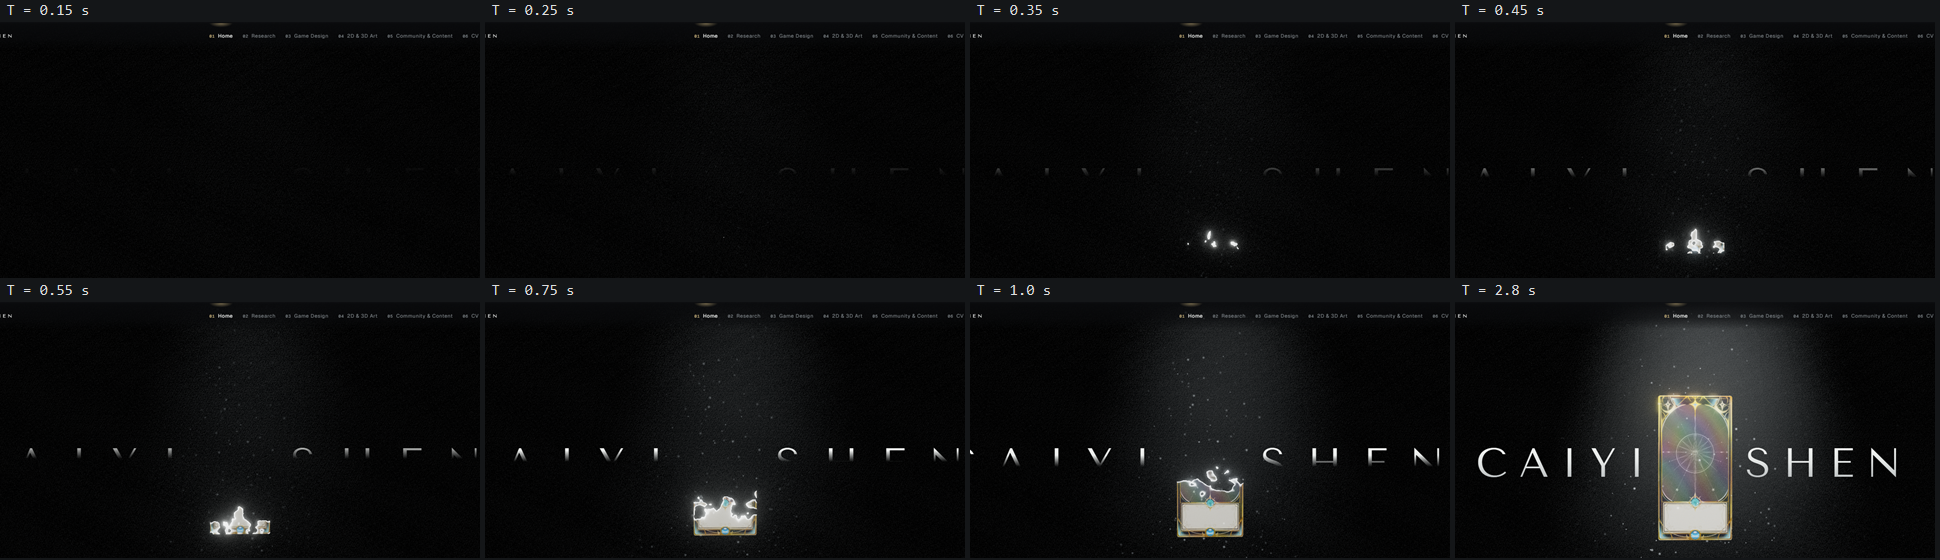
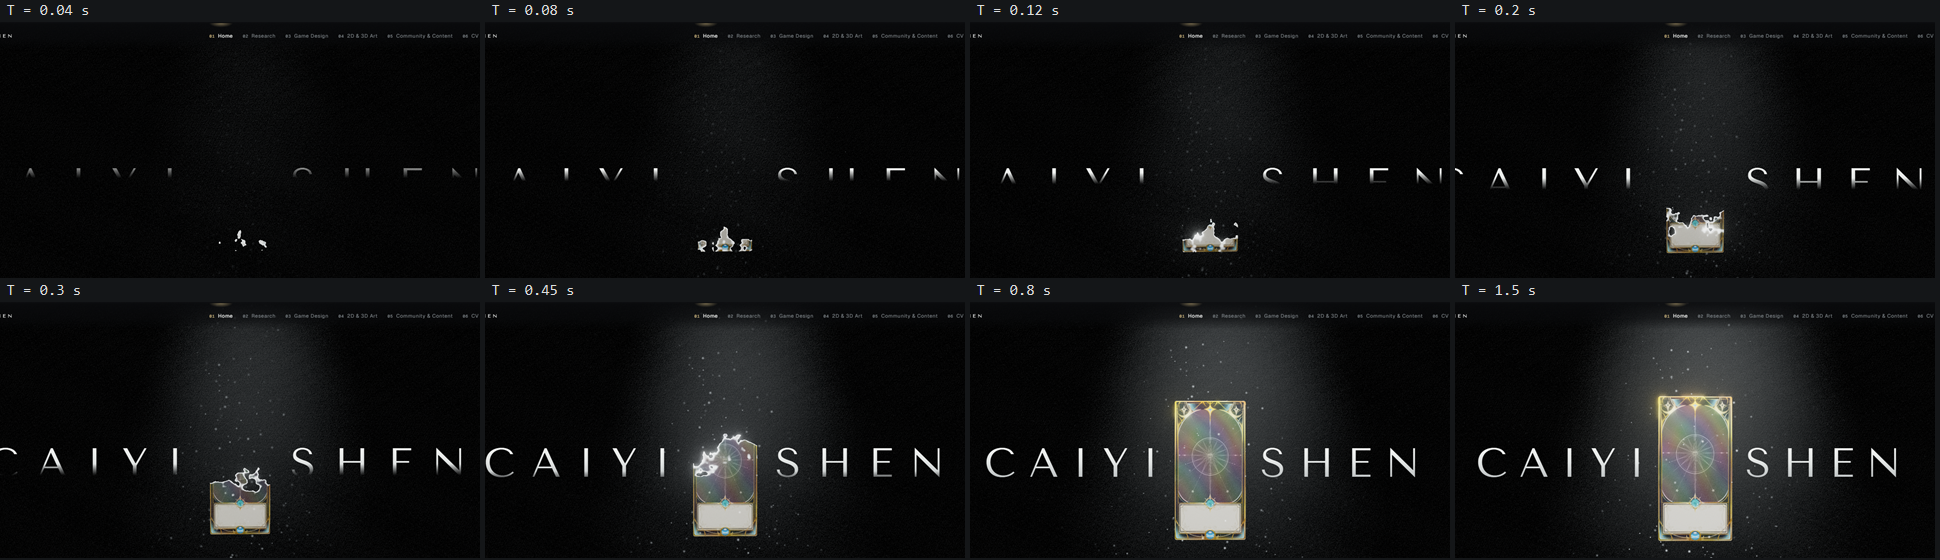
Cover: 1.5 s reveal, front-loaded name, 1.3 s approach; preload card textures

diff --git a/preview/c2/js/scene.js b/preview/c2/js/scene.js
@@ -11,15 +11,19 @@ const clamp01 = v => Math.min(1, Math.max(0, v));
  * name and the card all start there and share REVEAL and the same ease, so
  * they read as one shot. The camera push-in (4.6 s) starts at the same T = 0
  * and simply runs a little longer, settling after the reveal. */
-export const REVEAL = 2.2;
-export const APPROACH = 1.8;   // camera push-in + entrance turn (was 2.4 s, originally 4.6 s)
+export const REVEAL = 1.5;
+export const APPROACH = 1.3;   // camera push-in + entrance turn (was 1.8 s, originally 4.6 s)
 const approachEase = t => 1 - Math.pow(1 - t, 2.6);
-const introEase = ease.inOutSine;
+// Light and card dissolve: a sine ease-out, visible from the first frames
+// (the earlier in-out curve held the opening near black for ~0.25 s).
+const introEase = t => Math.sin(t * Math.PI / 2);
+// Name: front-loaded so most of the letters are lit within ~0.8 s.
+const nameEase = t => 1 - Math.pow(1 - t, 3);
 const A = p => new URL(p, import.meta.url).href;
 
 export const theme = {
   cardSrc: A('../../../assets/projects/generate-deeplight-games/tarot-card-design-v2-tight-758.webp'),
-  cardMaps: { base: A('../textures/tarot-base-neutral.png'), surface: A('../textures/tarot-surface.png'), foil: A('../textures/tarot-foil.png') },
+  cardMaps: { base: A('../textures/tarot-base-neutral.webp'), surface: A('../textures/tarot-surface.png'), foil: A('../textures/tarot-foil.png') },
   foil: { strength: 0.85, gain: 1.4, floor: 0.003, saturation: 0.6, bandFreq: 3.0, thickPhase: 0.35, bandsAcross: 2.2, iridescence: 0.4, ior: 1.5, thicknessRange: [240, 520], clearcoatRoughness: 0.16 },
   sweep: false,
   background: '#050607',
@@ -85,7 +89,9 @@ export const theme = {
     const M0 = 4;            // mask edge just above the cap height: letters begin to show at once
     if (cover) document.documentElement.classList.add('tl-driven');
     return { update(st, k, T) {
-      const a = reducedMQ.matches ? 1 : introEase(clamp01(T / REVEAL));
+      const p = clamp01(T / REVEAL);
+      const a = reducedMQ.matches ? 1 : introEase(p);
+      const an = reducedMQ.matches ? 1 : nameEase(p);
       const v = Math.pow(a, SPOT_GAMMA);
       beam.material.uniforms.uA.value = v * (1 - st.scroll * 0.6);
       pool.material.uniforms.uA.value = v;
@@ -95,9 +101,9 @@ export const theme = {
       if (done || !cover) return;
       // Name: lit from above as the light comes up, tracking settling — same clock, same ease.
       const ls0 = portrait.matches ? 0.5 : 0.62, ls1 = portrait.matches ? 0.22 : 0.3;
-      for (const w of words) { w.style.setProperty('--m', (M0 + (100 - M0) * a).toFixed(2) + '%'); w.style.setProperty('--ls', (ls0 + (ls1 - ls0) * a).toFixed(4) + 'em'); w.style.opacity = String(clamp01(a / 0.12)); }
+      for (const w of words) { w.style.setProperty('--m', (M0 + (100 - M0) * an).toFixed(2) + '%'); w.style.setProperty('--ls', (ls0 + (ls1 - ls0) * an).toFixed(4) + 'em'); w.style.opacity = String(clamp01(an / 0.12)); }
       meta.forEach((m, i) => { m.style.opacity = String(Math.pow(a, 1.6 + i * 0.8)); });
-      if (a >= 1) { done = true; for (const w of words) { w.style.removeProperty('--m'); w.style.removeProperty('--ls'); } document.documentElement.classList.add('scene-lit'); }
+      if (p >= 1) { done = true; for (const w of words) { w.style.removeProperty('--m'); w.style.removeProperty('--ls'); } document.documentElement.classList.add('scene-lit'); }
     } };
   },
 };

diff --git a/prototypes/src/c2/scene.js b/prototypes/src/c2/scene.js
@@ -11,15 +11,19 @@ const clamp01 = v => Math.min(1, Math.max(0, v));
  * name and the card all start there and share REVEAL and the same ease, so
  * they read as one shot. The camera push-in (4.6 s) starts at the same T = 0
  * and simply runs a little longer, settling after the reveal. */
-export const REVEAL = 2.2;
-export const APPROACH = 1.8;   // camera push-in + entrance turn (was 2.4 s, originally 4.6 s)
+export const REVEAL = 1.5;
+export const APPROACH = 1.3;   // camera push-in + entrance turn (was 1.8 s, originally 4.6 s)
 const approachEase = t => 1 - Math.pow(1 - t, 2.6);
-const introEase = ease.inOutSine;
+// Light and card dissolve: a sine ease-out, visible from the first frames
+// (the earlier in-out curve held the opening near black for ~0.25 s).
+const introEase = t => Math.sin(t * Math.PI / 2);
+// Name: front-loaded so most of the letters are lit within ~0.8 s.
+const nameEase = t => 1 - Math.pow(1 - t, 3);
 const A = p => new URL(p, import.meta.url).href;
 
 export const theme = {
   cardSrc: A('../../../assets/projects/generate-deeplight-games/tarot-card-design-v2-tight-758.webp'),
-  cardMaps: { base: A('../textures/tarot-base-neutral.png'), surface: A('../textures/tarot-surface.png'), foil: A('../textures/tarot-foil.png') },
+  cardMaps: { base: A('../textures/tarot-base-neutral.webp'), surface: A('../textures/tarot-surface.png'), foil: A('../textures/tarot-foil.png') },
   foil: { strength: 0.85, gain: 1.4, floor: 0.003, saturation: 0.6, bandFreq: 3.0, thickPhase: 0.35, bandsAcross: 2.2, iridescence: 0.4, ior: 1.5, thicknessRange: [240, 520], clearcoatRoughness: 0.16 },
   sweep: false,
   background: '#050607',
@@ -85,7 +89,9 @@ export const theme = {
     const M0 = 4;            // mask edge just above the cap height: letters begin to show at once
     if (cover) document.documentElement.classList.add('tl-driven');
     return { update(st, k, T) {
-      const a = reducedMQ.matches ? 1 : introEase(clamp01(T / REVEAL));
+      const p = clamp01(T / REVEAL);
+      const a = reducedMQ.matches ? 1 : introEase(p);
+      const an = reducedMQ.matches ? 1 : nameEase(p);
       const v = Math.pow(a, SPOT_GAMMA);
       beam.material.uniforms.uA.value = v * (1 - st.scroll * 0.6);
       pool.material.uniforms.uA.value = v;
@@ -95,9 +101,9 @@ export const theme = {
       if (done || !cover) return;
       // Name: lit from above as the light comes up, tracking settling — same clock, same ease.
       const ls0 = portrait.matches ? 0.5 : 0.62, ls1 = portrait.matches ? 0.22 : 0.3;
-      for (const w of words) { w.style.setProperty('--m', (M0 + (100 - M0) * a).toFixed(2) + '%'); w.style.setProperty('--ls', (ls0 + (ls1 - ls0) * a).toFixed(4) + 'em'); w.style.opacity = String(clamp01(a / 0.12)); }
+      for (const w of words) { w.style.setProperty('--m', (M0 + (100 - M0) * an).toFixed(2) + '%'); w.style.setProperty('--ls', (ls0 + (ls1 - ls0) * an).toFixed(4) + 'em'); w.style.opacity = String(clamp01(an / 0.12)); }
       meta.forEach((m, i) => { m.style.opacity = String(Math.pow(a, 1.6 + i * 0.8)); });
-      if (a >= 1) { done = true; for (const w of words) { w.style.removeProperty('--m'); w.style.removeProperty('--ls'); } document.documentElement.classList.add('scene-lit'); }
+      if (p >= 1) { done = true; for (const w of words) { w.style.removeProperty('--m'); w.style.removeProperty('--ls'); } document.documentElement.classList.add('scene-lit'); }
     } };
   },
 };

diff --git a/preview/c2/js/tarot-engine-c2.js b/preview/c2/js/tarot-engine-c2.js
@@ -287,6 +287,10 @@ export function updateGrating(uniforms, card, camera, dir = [0.6, 0.8, 0]) {
 }
 
 export async function mountScene(root, theme) {
+  performance.mark('c2:mount');
+  // Request the artwork and its material maps immediately and in parallel, so
+  // they arrive while the renderer and environment are being prepared.
+  const pending = theme.card === false ? null : Promise.all([theme.cardSrc, ...(theme.cardMaps ? [theme.cardMaps.base, theme.cardMaps.surface, theme.cardMaps.foil] : [])].map(src => loadImage(src).catch(() => null)));
   const canvas = root.querySelector('canvas');
   const reduce = matchMedia('(prefers-reduced-motion: reduce)');
   if (!canvas || !webglAvailable()) { root.classList.add('no-webgl'); return null; }
@@ -306,8 +310,10 @@ export async function mountScene(root, theme) {
   const scene = new THREE.Scene();
   if (!theme.transparent) scene.background = new THREE.Color(theme.background);
   if (theme.fog) scene.fog = new THREE.Fog(theme.fog.color, theme.fog.near, theme.fog.far);
+  performance.mark('c2:renderer');
   const pmrem = new THREE.PMREMGenerator(renderer);
   scene.environment = pmrem.fromScene(new RoomEnvironment(), 0.04).texture;
+  performance.mark('c2:pmrem');
   scene.environmentIntensity = theme.environmentIntensity ?? 1;
   if (theme.environmentRotation) scene.environmentRotation.set(...theme.environmentRotation);
 
@@ -327,9 +333,11 @@ export async function mountScene(root, theme) {
   const cardPivot = new THREE.Group(); rig.add(cardPivot);
   let card = null, cardUniforms = null;
   if (theme.card !== false) {
-    const img = await loadImage(theme.cardSrc);
+    const [img, base, surface, foil] = await pending;
     let maps = null;
-    if (theme.cardMaps) { try { const [base, surface, foil] = await Promise.all([theme.cardMaps.base, theme.cardMaps.surface, theme.cardMaps.foil].map(loadImage)); maps = { base, surface, foil }; } catch (e) { console.warn('Derived card maps unavailable; using the artwork directly without foil.', e); } }
+    if (theme.cardMaps && base && surface && foil) maps = { base, surface, foil };
+    else if (theme.cardMaps) console.warn('Derived card maps unavailable; using the artwork directly without foil.');
+    performance.mark('c2:images');
     const built = createCardMaterials(img, renderer, theme, maps);
     card = new THREE.Mesh(buildCardGeometry(theme.cardGeometry), built.materials);
     cardUniforms = built.uniforms;
@@ -427,7 +435,9 @@ export async function mountScene(root, theme) {
   if (!reduce.matches) addEventListener('pointermove', e => { if (e.pointerType !== 'mouse') return; st.tx = (e.clientX / innerWidth) * 2 - 1; st.ty = -((e.clientY / innerHeight) * 2 - 1); }, { passive: true });
   reduce.addEventListener?.('change', () => { stop(); updateRun(); frame(0); });
 
+  performance.mark('c2:setup');
   frame(0);
+  performance.mark('c2:firstframe');
   root.classList.add('is-live');
   updateRun();
   if (reduce.matches) frame(0);

diff --git a/prototypes/src/c2/tarot-engine-c2.js b/prototypes/src/c2/tarot-engine-c2.js
@@ -287,6 +287,10 @@ export function updateGrating(uniforms, card, camera, dir = [0.6, 0.8, 0]) {
 }
 
 export async function mountScene(root, theme) {
+  performance.mark('c2:mount');
+  // Request the artwork and its material maps immediately and in parallel, so
+  // they arrive while the renderer and environment are being prepared.
+  const pending = theme.card === false ? null : Promise.all([theme.cardSrc, ...(theme.cardMaps ? [theme.cardMaps.base, theme.cardMaps.surface, theme.cardMaps.foil] : [])].map(src => loadImage(src).catch(() => null)));
   const canvas = root.querySelector('canvas');
   const reduce = matchMedia('(prefers-reduced-motion: reduce)');
   if (!canvas || !webglAvailable()) { root.classList.add('no-webgl'); return null; }
@@ -306,8 +310,10 @@ export async function mountScene(root, theme) {
   const scene = new THREE.Scene();
   if (!theme.transparent) scene.background = new THREE.Color(theme.background);
   if (theme.fog) scene.fog = new THREE.Fog(theme.fog.color, theme.fog.near, theme.fog.far);
+  performance.mark('c2:renderer');
   const pmrem = new THREE.PMREMGenerator(renderer);
   scene.environment = pmrem.fromScene(new RoomEnvironment(), 0.04).texture;
+  performance.mark('c2:pmrem');
   scene.environmentIntensity = theme.environmentIntensity ?? 1;
   if (theme.environmentRotation) scene.environmentRotation.set(...theme.environmentRotation);
 
@@ -327,9 +333,11 @@ export async function mountScene(root, theme) {
   const cardPivot = new THREE.Group(); rig.add(cardPivot);
   let card = null, cardUniforms = null;
   if (theme.card !== false) {
-    const img = await loadImage(theme.cardSrc);
+    const [img, base, surface, foil] = await pending;
     let maps = null;
-    if (theme.cardMaps) { try { const [base, surface, foil] = await Promise.all([theme.cardMaps.base, theme.cardMaps.surface, theme.cardMaps.foil].map(loadImage)); maps = { base, surface, foil }; } catch (e) { console.warn('Derived card maps unavailable; using the artwork directly without foil.', e); } }
+    if (theme.cardMaps && base && surface && foil) maps = { base, surface, foil };
+    else if (theme.cardMaps) console.warn('Derived card maps unavailable; using the artwork directly without foil.');
+    performance.mark('c2:images');
     const built = createCardMaterials(img, renderer, theme, maps);
     card = new THREE.Mesh(buildCardGeometry(theme.cardGeometry), built.materials);
     cardUniforms = built.uniforms;
@@ -427,7 +435,9 @@ export async function mountScene(root, theme) {
   if (!reduce.matches) addEventListener('pointermove', e => { if (e.pointerType !== 'mouse') return; st.tx = (e.clientX / innerWidth) * 2 - 1; st.ty = -((e.clientY / innerHeight) * 2 - 1); }, { passive: true });
   reduce.addEventListener?.('change', () => { stop(); updateRun(); frame(0); });
 
+  performance.mark('c2:setup');
   frame(0);
+  performance.mark('c2:firstframe');
   root.classList.add('is-live');
   updateRun();
   if (reduce.matches) frame(0);

diff --git a/preview/c2/index.html b/preview/c2/index.html
@@ -18,6 +18,12 @@
 <script>document.documentElement.classList.add('js-anim');try{var gc=document.createElement('canvas');if(gc.getContext('webgl2')||gc.getContext('webgl'))document.documentElement.classList.add('gl')}catch(e){}</script>
 <script type="importmap">{"imports":{"three":"./vendor/three/three.module.js","three/addons/":"./vendor/three/addons/"}}</script>
 <script type="module" src="js/scene.js"></script>
+<link rel="modulepreload" href="js/tarot-engine-c2.js">
+<link rel="modulepreload" href="vendor/three/three.module.js">
+<link rel="modulepreload" href="vendor/three/three.core.js">
+<link rel="preload" as="image" href="textures/tarot-base-neutral.webp">
+<link rel="preload" as="image" href="textures/tarot-surface.png">
+<link rel="preload" as="image" href="textures/tarot-foil.png">
 </head>
 <body class="c2 is-chapter is-cover ch-01" data-chapter-index="0" data-chapter-name="Home">
 <a class="skip-link" href="#main">Skip to content</a>

diff --git a/docs/portfolio-redesign/DEVLOG.md b/docs/portfolio-redesign/DEVLOG.md
@@ -104,3 +104,13 @@ Visually, the tops of the letters, the card's first fragments and a faint beam s
 - The shared reveal (spotlight, name, card dissolve) is now 2.2 s (was 2.8 s). The camera approach and entrance turn take 1.8 s (was 2.4 s).
 - Easing curves, onset offsets, the spotlight curve, the final composition and the idle float/rotation speeds are unchanged.
 - **Synchronization re-measured on frozen frames:** the letter tops, the card's first fragments and the beam surface together at about 0.25 s; the card is in place at 1.8 s; everything rests at 2.2 s.
+
+## Opening sequence — immediate
+- **Durations:** the shared reveal is 1.5 s (was 2.2 s); the camera approach and entrance turn take 1.3 s (was 1.8 s). The idle float and rotation are unchanged.
+- **Easing:** the name uses an ease-out cubic, so most letters are lit by about 0.4 s and all by 0.8 s. The spotlight and card dissolve use a sine ease-out. The previous in-out curve held the opening near black for ~0.25 s; the new curves are visible from the first frames. The reveal styles and the final composition are unchanged.
+- **Synchronization (frozen frames, normalised):** at 0.04 s name 5 % / card 5 % / beam 7 %; at 0.2 s 35 % / 36 % / 36 %; the three stay within a few percent of each other. Real time: all three are on screen at 0.06 s.
+- **Start-up before T = 0:**
+  - The card's textures are now preloaded and requested in parallel; previously they were requested only after the renderer and environment set-up (they arrived ~0.9 s late).
+  - The neutral base is served as WebP: 232 KB instead of 1.06 MB.
+  - With a warm GPU process the first frame now arrives ~0.17–0.24 s after first paint. A cold, freshly started headless browser still takes ~1 s, almost all of it WebGL context creation and first-time shader compilation. Parallel shader compilation was tried and gave no measurable gain, so it was not kept.
+  - `performance.mark('c2:*')` timing marks are left in for QA.
